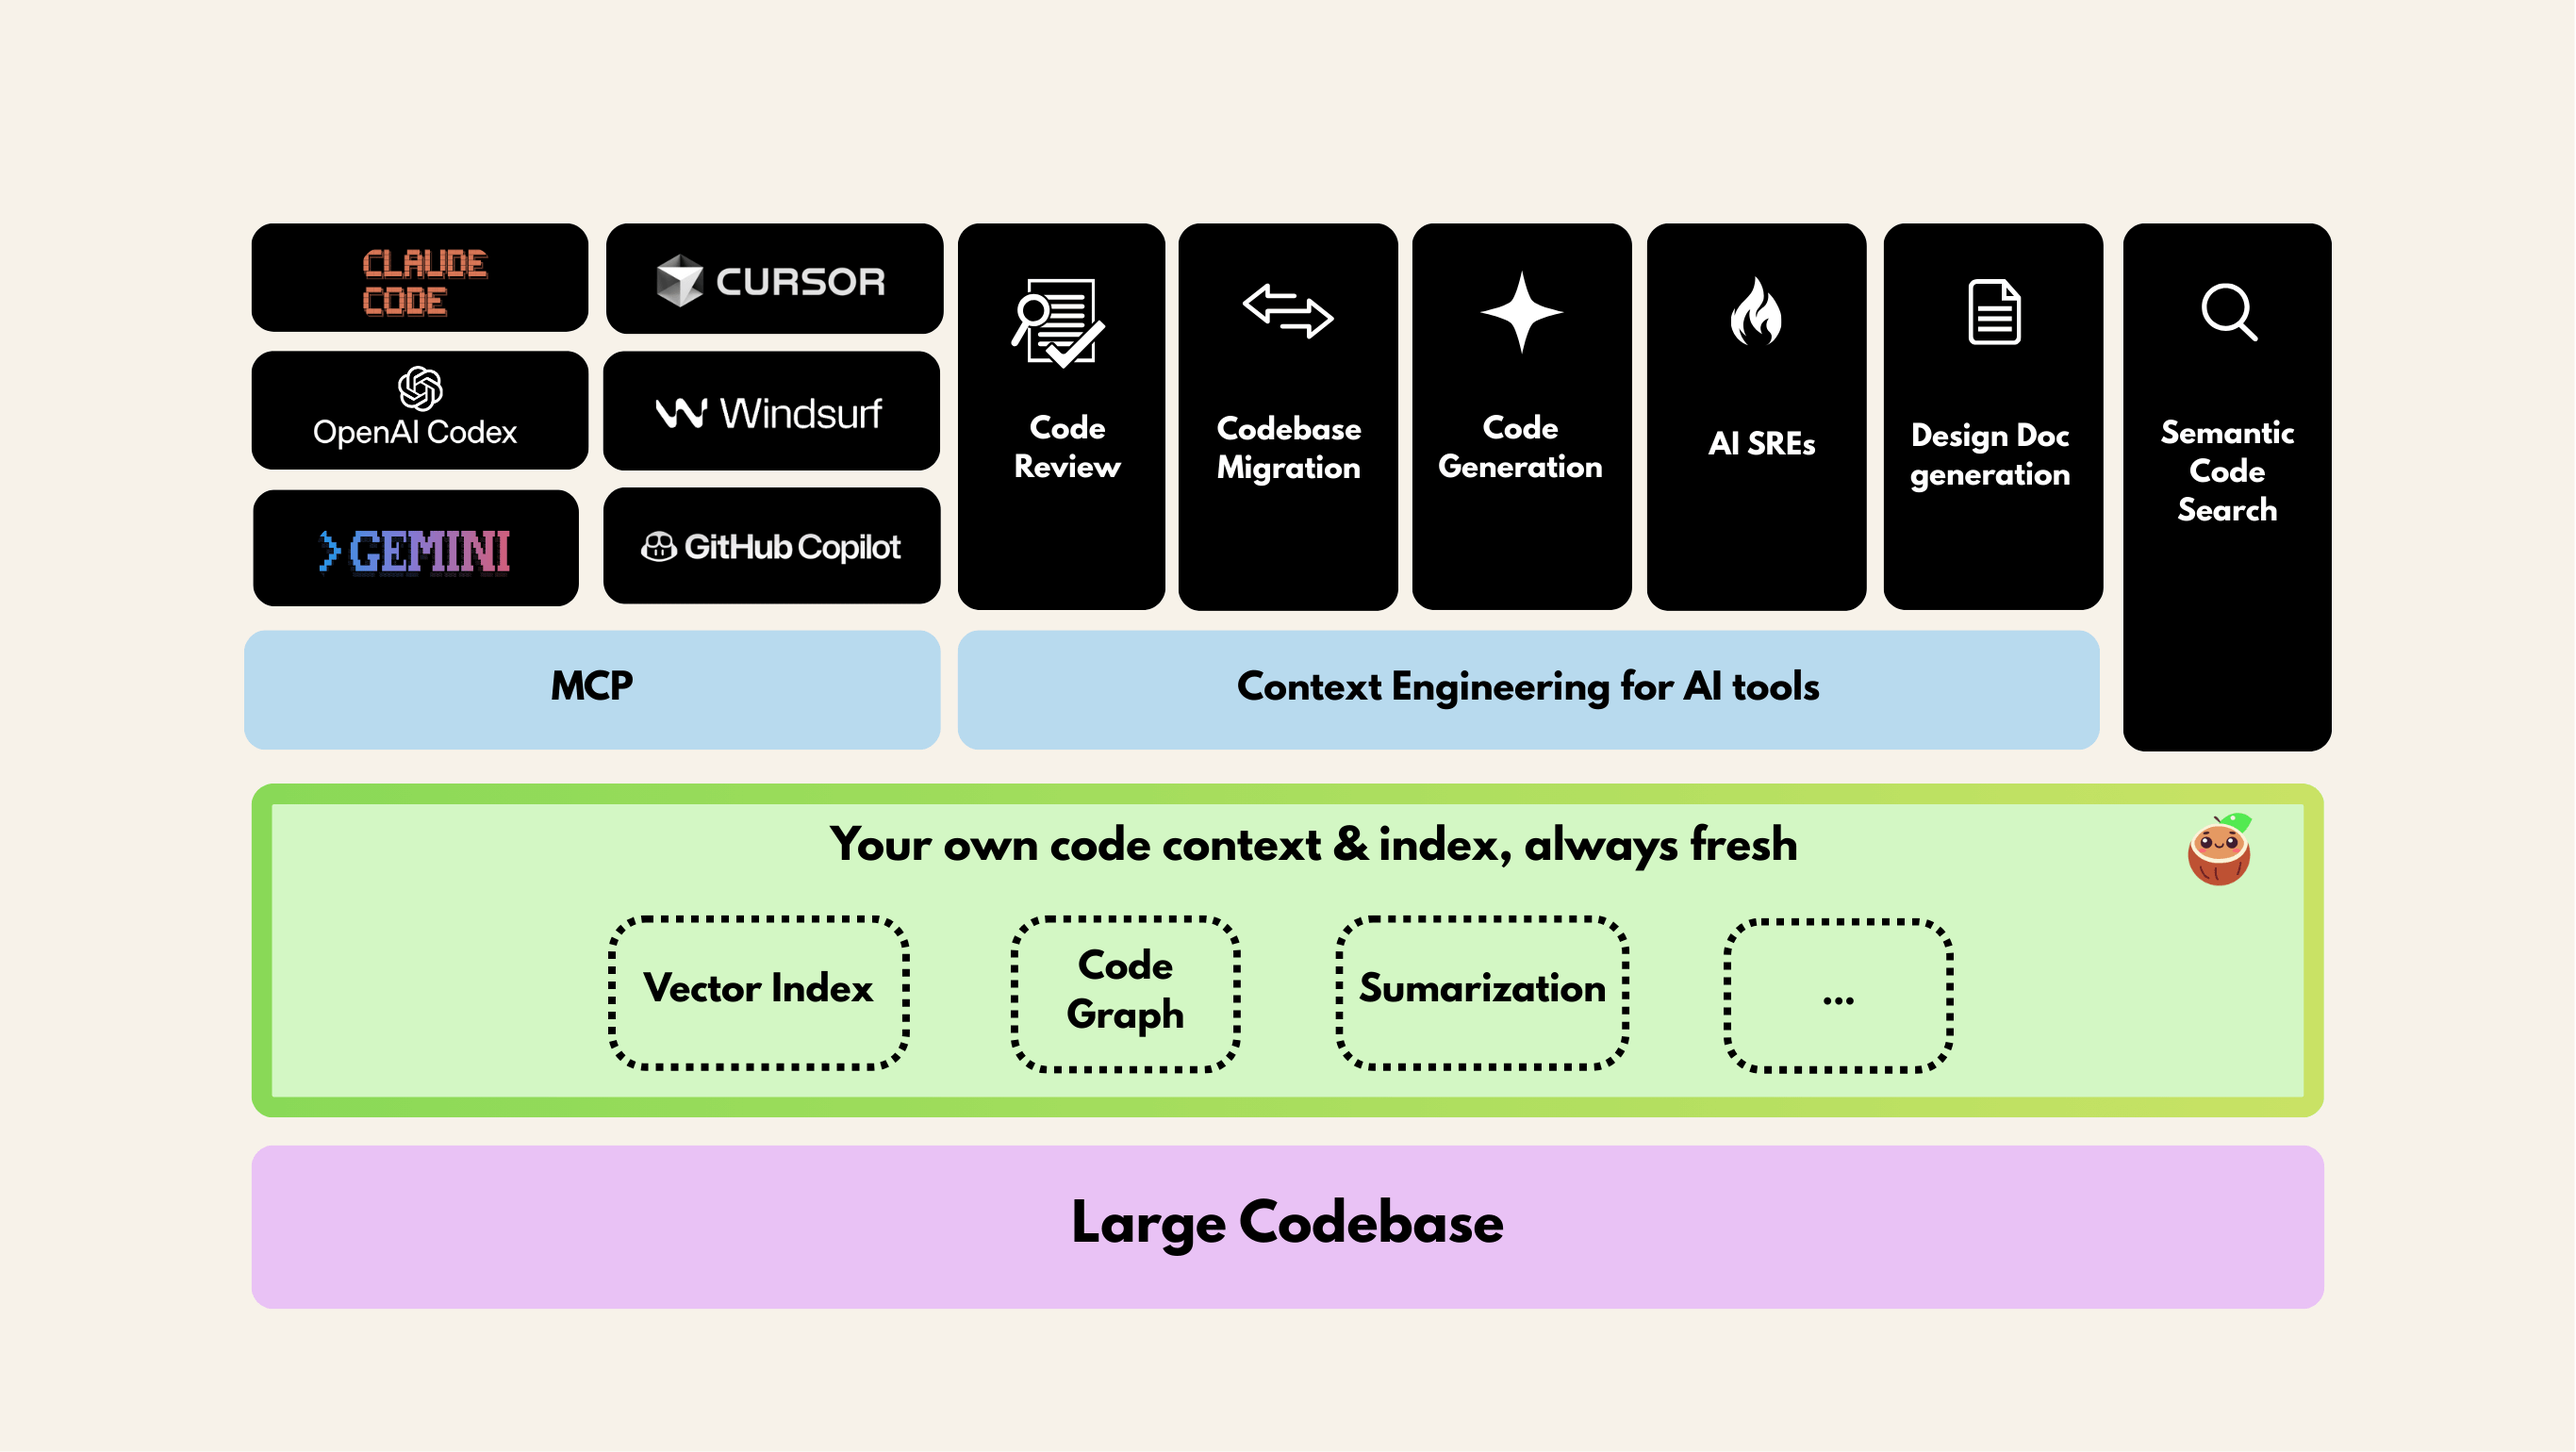
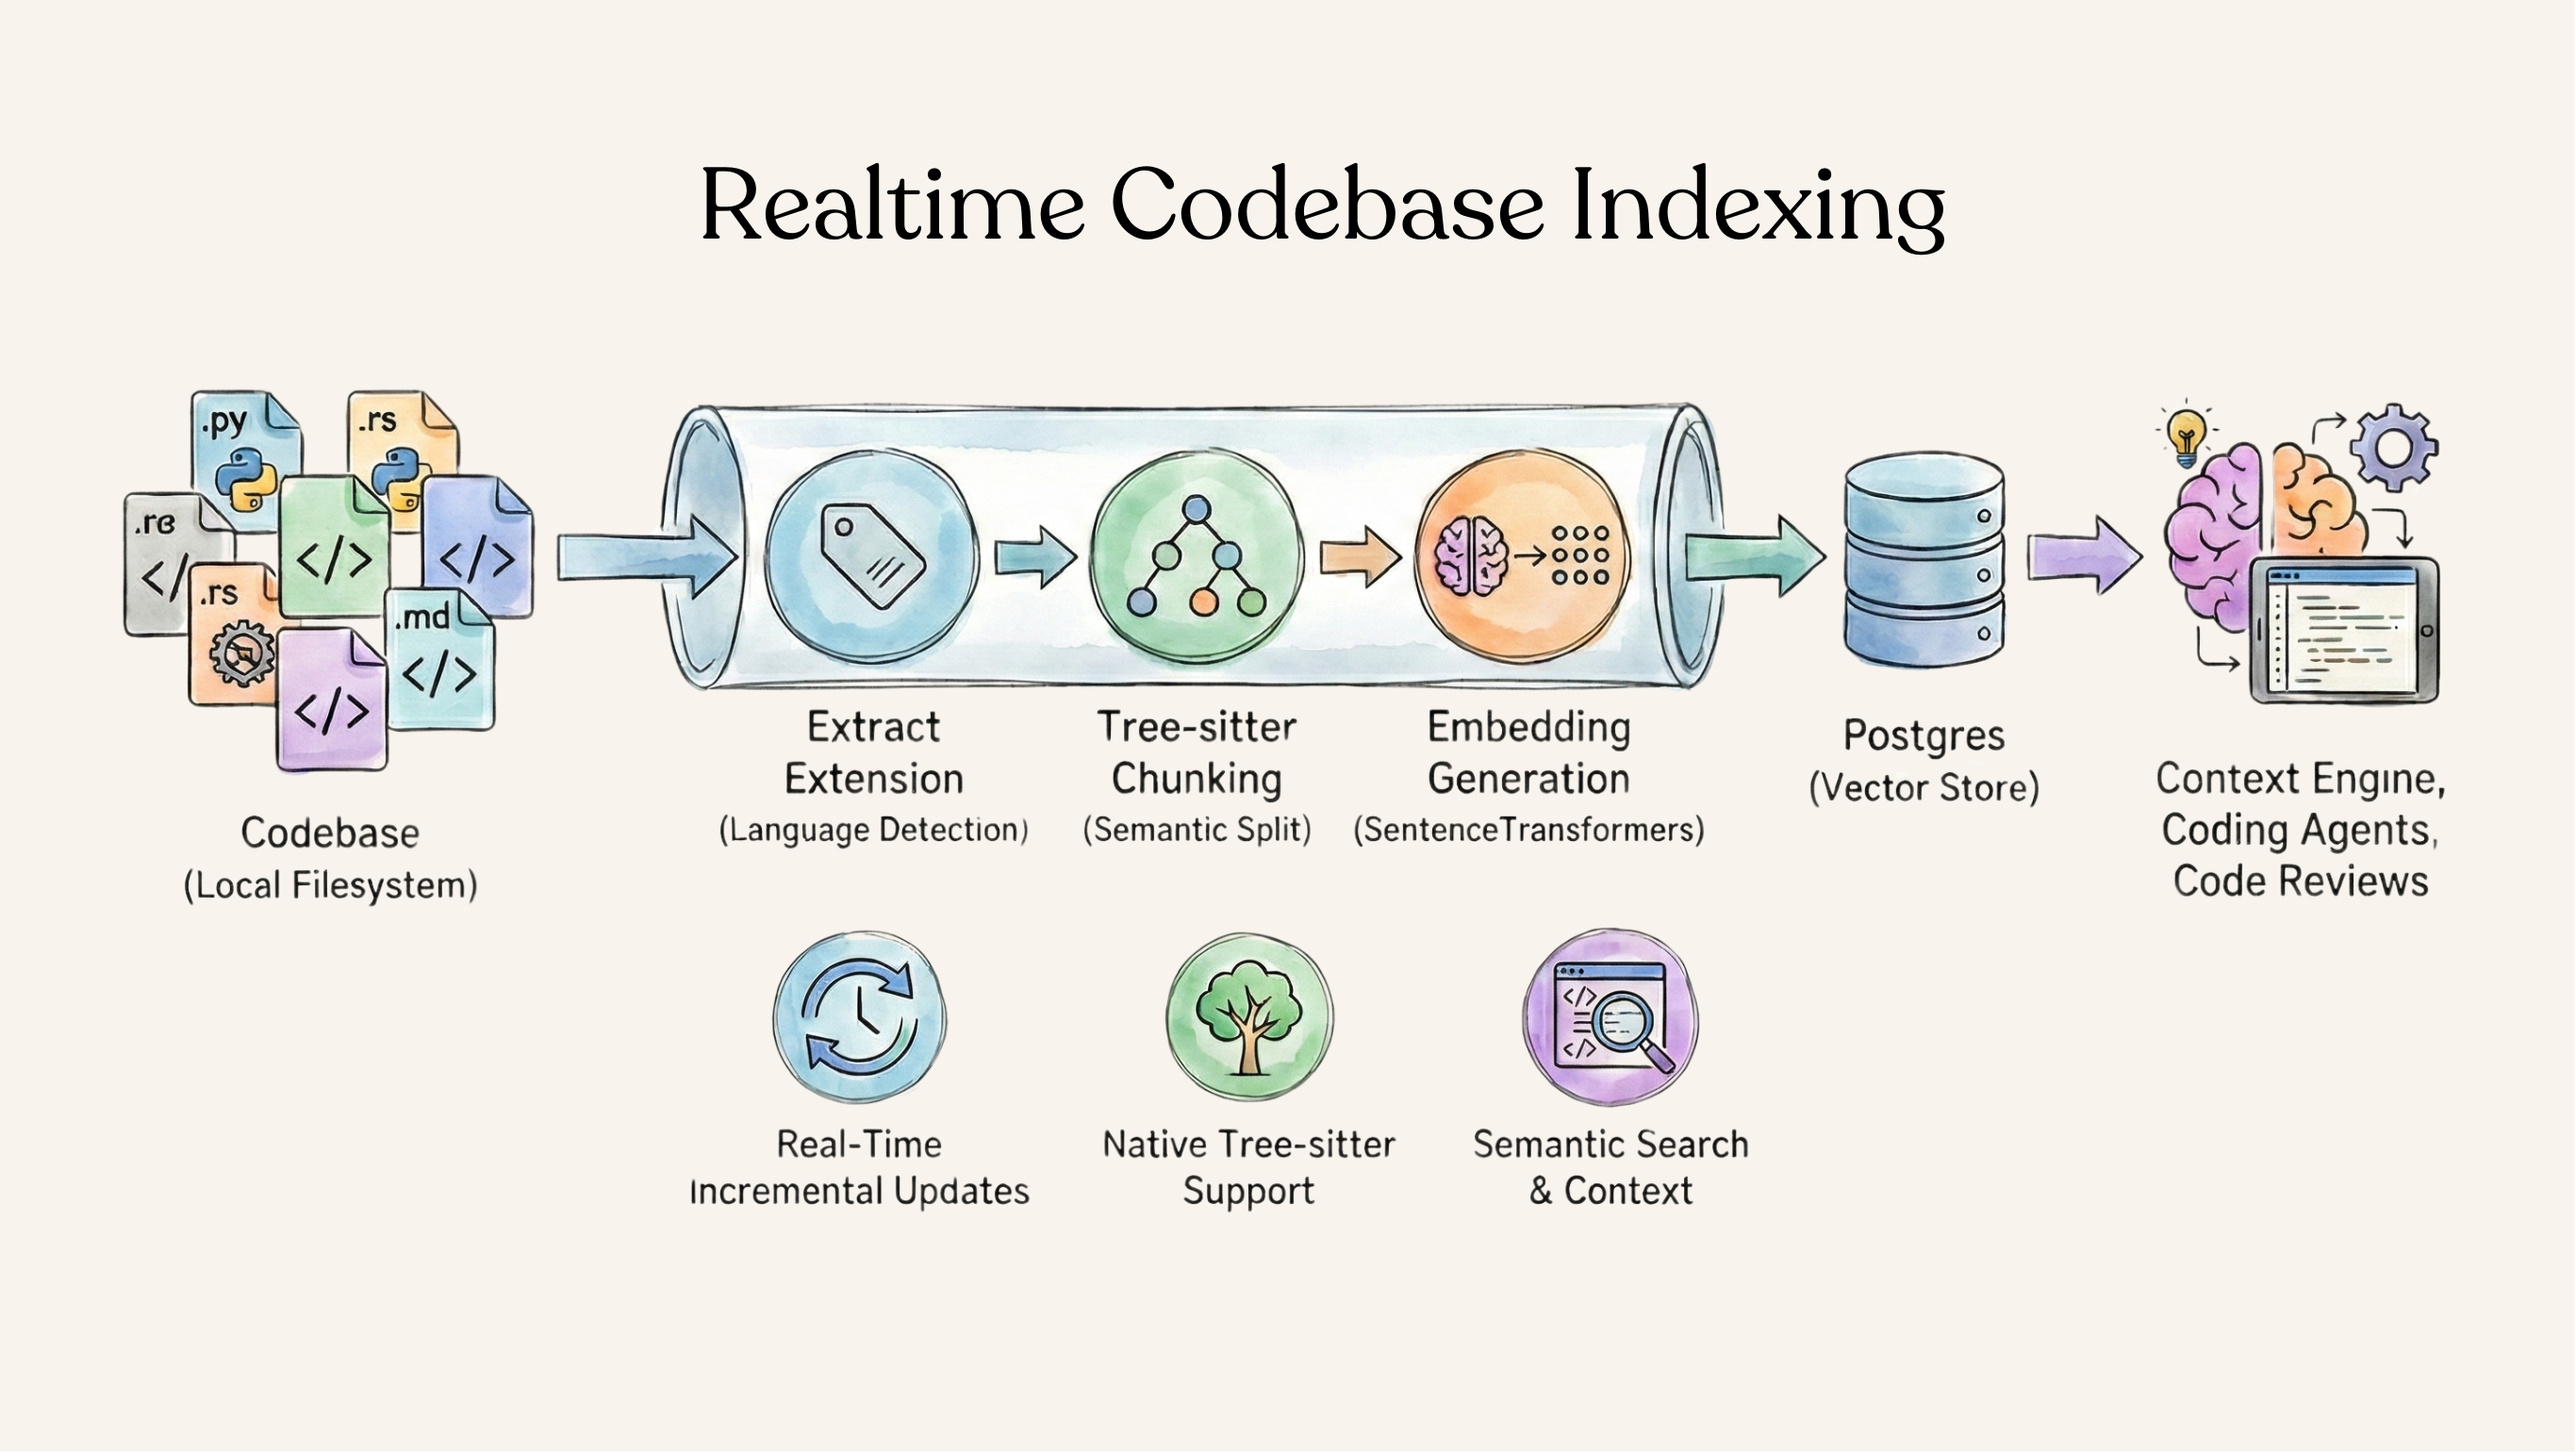
update illustrations for codebase indexing

diff --git a/docs/examples/00_codebase_index.md b/docs/examples/00_codebase_index.md
@@ -16,7 +16,6 @@ import { GitHubButton, YouTubeButton, DocumentationButton } from '@site/src/comp
 <GitHubButton url="https://github.com/cocoindex-io/cocoindex/tree/main/examples/code_embedding" margin="0 0 24px 0" />
 <YouTubeButton url="https://youtu.be/G3WstvhHO24?si=ndYfM0XRs03_hVPR" margin="0 0 24px 0" />
 
-![Codebase Index](/img/examples/codebase_index/cover.png)
 
 ## Overview
 
@@ -25,6 +24,8 @@ In this tutorial, we will build codebase index. [CocoIndex](https://github.com/c
 ## Use Cases
 
 A wide range of applications can be built with an effective codebase index that is always up-to-date.
+
+![Codebase Index Use Cases](/img/examples/codebase_index/usecase.png)
 
 - Semantic code context for AI coding agents like Claude, Codex, Gemini CLI.
 - MCP for code editors such as Cursor, Windsurf, and VSCode.
